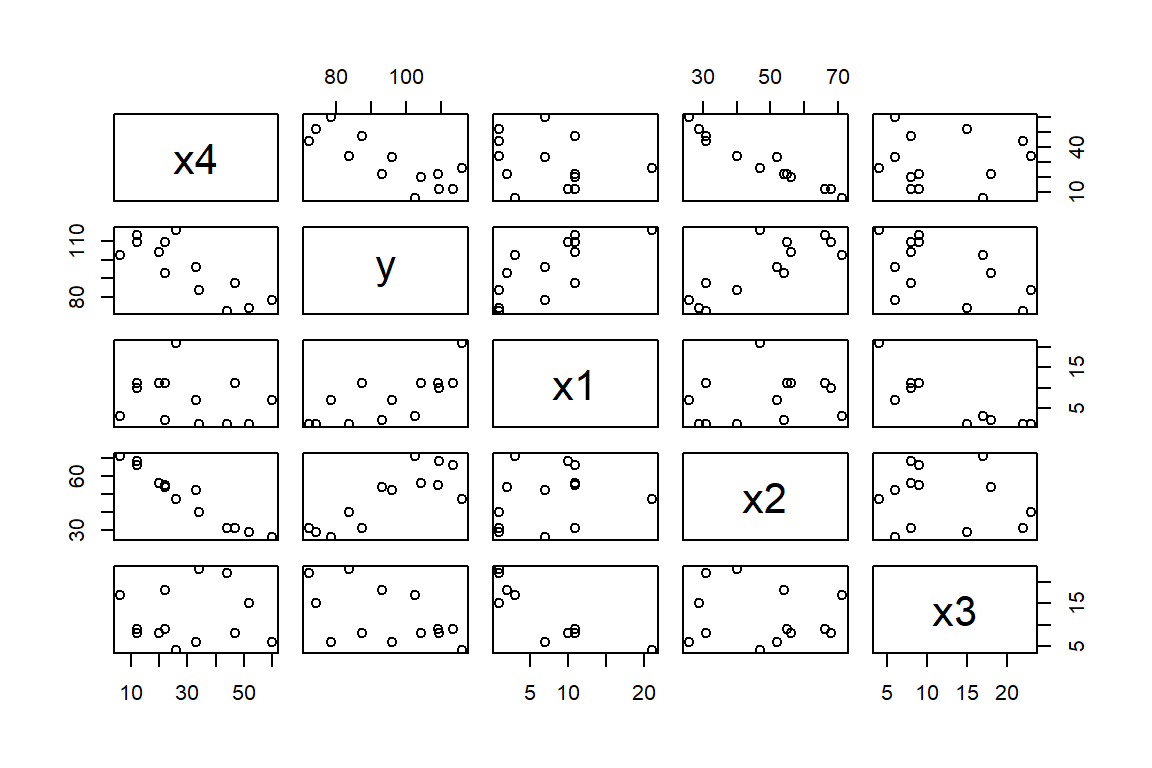
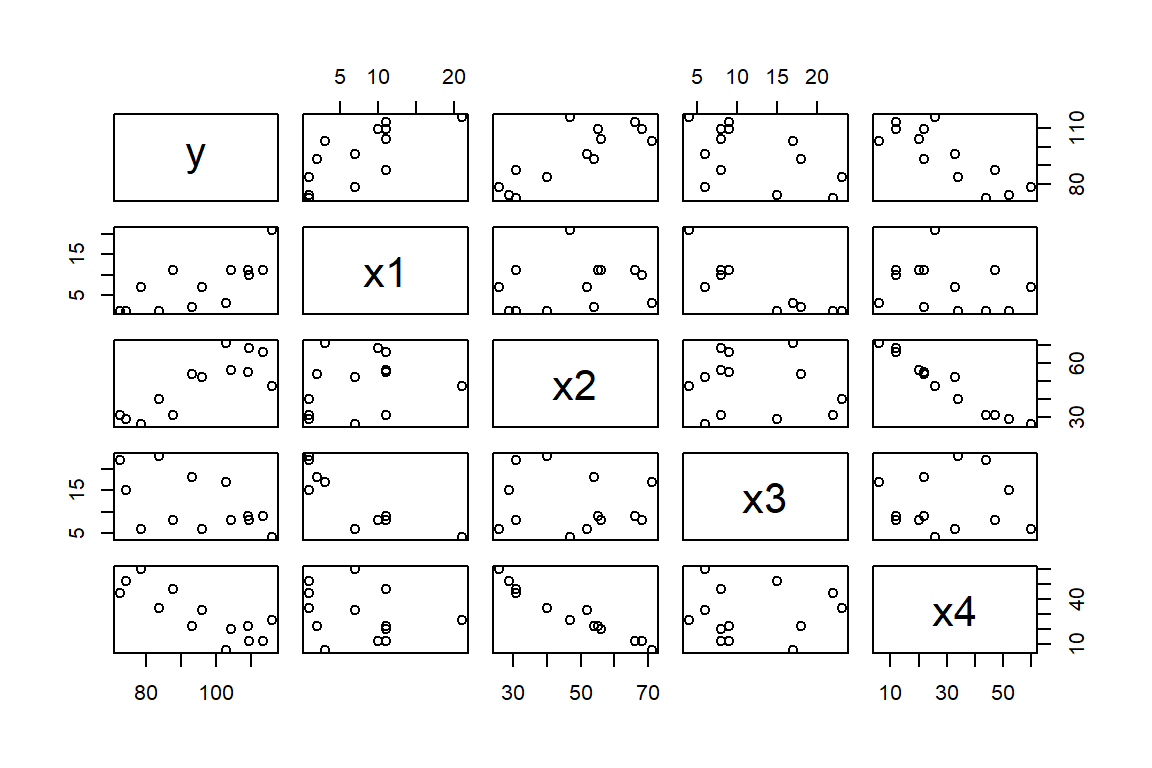
27/04/22

diff --git a/docs/multicolinealidad.html b/docs/multicolinealidad.html
@@ -24,7 +24,7 @@
 <meta name="author" content="Alvaro J. Flórez" />
 
 
-<meta name="date" content="2022-04-25" />
+<meta name="date" content="2022-04-27" />
 
   <meta name="viewport" content="width=device-width, initial-scale=1" />
   <meta name="apple-mobile-web-app-capable" content="yes" />
@@ -195,6 +195,10 @@ code span.wa { color: #60a0b0; font-weight: bold; font-style: italic; } /* Warni
 <ul>
 <li class="chapter" data-level="3.7.1" data-path="multicolinealidad.html"><a href="multicolinealidad.html#datos-de-cemento-1"><i class="fa fa-check"></i><b>3.7.1</b> Datos de cemento</a></li>
 </ul></li>
+<li class="chapter" data-level="3.8" data-path="multicolinealidad.html"><a href="multicolinealidad.html#estimador-por-componentes-principales"><i class="fa fa-check"></i><b>3.8</b> Estimador por componentes principales</a>
+<ul>
+<li class="chapter" data-level="3.8.1" data-path="multicolinealidad.html"><a href="multicolinealidad.html#datos-de-cemento-2"><i class="fa fa-check"></i><b>3.8.1</b> Datos de cemento</a></li>
+</ul></li>
 </ul></li>
 <li class="divider"></li>
 <li><a href="https://github.com/rstudio/bookdown" target="blank">Published with bookdown</a></li>
@@ -231,9 +235,8 @@ code span.wa { color: #60a0b0; font-weight: bold; font-style: italic; } /* Warni
 <li><strong><code>x4</code></strong> silicato dicálcico (%).</li>
 </ul>
 <p>En la Figura <a href="multicolinealidad.html#fig:CementFigure">3.1</a> podemos observar que hay relaciones lineales positivas entre la variable respuesta, y las covariables aluminato tricálcico y silicato tricálcico. Mientras que la relación con la variable silicato dicálcico es negativa. También podemos notar que hay una relación negativa fuerte en las covariables aluminato tricálcico y tetra-aluminio ferrita de calcio, y entre silicato tricálcico y silicato dicálcico.</p>
-<div class="sourceCode" id="cb36"><pre class="sourceCode r"><code class="sourceCode r"><span id="cb36-1"><a href="multicolinealidad.html#cb36-1" aria-hidden="true" tabindex="-1"></a><span class="fu">library</span>(MASS)</span>
-<span id="cb36-2"><a href="multicolinealidad.html#cb36-2" aria-hidden="true" tabindex="-1"></a><span class="fu">data</span>(cement)</span>
-<span id="cb36-3"><a href="multicolinealidad.html#cb36-3" aria-hidden="true" tabindex="-1"></a><span class="fu">plot</span>(cement[,<span class="fu">c</span>(<span class="dv">5</span>,<span class="dv">1</span><span class="sc">:</span><span class="dv">4</span>)])</span></code></pre></div>
+<div class="sourceCode" id="cb36"><pre class="sourceCode r"><code class="sourceCode r"><span id="cb36-1"><a href="multicolinealidad.html#cb36-1" aria-hidden="true" tabindex="-1"></a><span class="fu">data</span>(cement,<span class="at">package =</span> <span class="st">&#39;MASS&#39;</span>)</span>
+<span id="cb36-2"><a href="multicolinealidad.html#cb36-2" aria-hidden="true" tabindex="-1"></a><span class="fu">plot</span>(cement[,<span class="fu">c</span>(<span class="dv">5</span>,<span class="dv">1</span><span class="sc">:</span><span class="dv">4</span>)])</span></code></pre></div>
 <div class="figure" style="text-align: center"><span id="fig:CementFigure"></span>
 <img src="MLG2_files/figure-html/CementFigure-1.png" alt="Datos de cemento. Diagrama de dispersión." width="576" />
 <p class="caption">
@@ -329,28 +332,28 @@ Si esto se cumple para un subconjunto de <span class="math inline">\(\boldsymbol
 <span class="math display">\[
 \boldsymbol y^{*} = \boldsymbol Z\boldsymbol \beta+ \boldsymbol \varepsilon,
 \]</span>
-donde <span class="math inline">\(\boldsymbol Z\)</span> es la matriz de covariables escaladas con longitud unitaria, esto es:
+donde <span class="math inline">\(\boldsymbol Z\)</span> es la matriz de covariables escaladas con longitud unitaria. Esto es:
 <span class="math display">\[
 y_{i}^{*} = \frac{y_{i}-\bar{y}}{\sqrt{SST}}, \mbox{ y } z_{ij} = \frac{x_{ij} - \bar{x}_{j}}{\sqrt{s_{jj}}},
 \]</span>
-donde <span class="math inline">\(s_{jj} = \sum_{i=1}^{n}(x_{ij}-\bar{x}_{j})^{2}\)</span>. De esta forma la matriz <span class="math inline">\(\boldsymbol Z&#39;\boldsymbol Z\)</span> es la matriz de correlación de las covariables,
+donde <span class="math inline">\(s_{jj} = \sum_{i=1}^{n}(x_{ij}-\bar{x}_{j})^{2}\)</span>. De esta forma <span class="math inline">\(\boldsymbol Z&#39;\boldsymbol Z\)</span> es la matriz de correlación de las covariables,
 <span class="math display">\[
 \boldsymbol Z&#39;\boldsymbol Z= \begin{pmatrix}
-1 &amp; \rho_{12} \\ \rho_{12} &amp; 1
+1 &amp; r_{12} \\ r_{12} &amp; 1
 \end{pmatrix},
 \]</span>
 y <span class="math inline">\(\boldsymbol Z&#39;\boldsymbol y\)</span> es el vector de correlaciones entre <span class="math inline">\(y\)</span> y las dos covariables:
 <span class="math display">\[
 \boldsymbol Z&#39;\boldsymbol y^{*} = \begin{pmatrix}
-\rho_{y1} \\ \rho_{y2}
+r_{y1} \\ r_{y2}
 \end{pmatrix}.
 \]</span>
 Por lo que el estimador por MCO de <span class="math inline">\(\boldsymbol b\)</span> es:
 <span class="math display">\[
 \widehat{\boldsymbol b}= \begin{pmatrix}
-1 &amp; \rho_{12} \\ \rho_{12} &amp; 1
+1 &amp; r_{12} \\ r_{12} &amp; 1
 \end{pmatrix}^{-1}\begin{pmatrix}
-\rho_{y1} \\ \rho_{y2}
+r_{y1} \\ r_{y2}
 \end{pmatrix} = \begin{pmatrix}
 \frac{1}{1-r_{12}^{2}} &amp; \frac{-r_{12}}{1-r_{12}^{2}} \\ \frac{-r_{12}}{1-r_{12}^{2}} &amp; \frac{1}{1-r_{12}^{2}} \end{pmatrix} \begin{pmatrix}
 r_{1y} \\ r_{2y}
@@ -379,7 +382,7 @@ Las ecuaciones normales son:
 \vdots &amp; \vdots &amp; \vdots &amp; \ddots &amp; \vdots \\
 r_{1,p-1} &amp; r_{2,p-1} &amp; r_{3,p-1} &amp; \ldots &amp; 1
 \end{pmatrix} \begin{pmatrix}
-b_{1} \\ b_{2} \\ \vdots \\ b_{k}
+b_{1} \\ b_{2} \\ \vdots \\ b_{p-1}
 \end{pmatrix} = \begin{pmatrix}
 r_{y1} \\ r_{y2} \\ \vdots \\ r_{y,p-1}
 \end{pmatrix}.
@@ -401,13 +404,13 @@ z_{ij} = z_{i1}\alpha_1 + z_{i2}\alpha_2 + \ldots + z_{i,j-1}\alpha_{j-1} + z_{i
 V(\widehat{b}_{j}) = \frac{\sigma^{2}}{1-R^{2}_{j}}.
 \]</span>
 Por lo que, si <span class="math inline">\(z_j\)</span> se puede expresar como una combinación lineal aproximada de las demás covariables, la varianza del estimador de <span class="math inline">\(b_j\)</span> Si <span class="math inline">\(R^{2}_{j} \rightarrow 1\)</span>, entonces <span class="math inline">\(V(\widehat{b}_{j})\rightarrow \infty\)</span>.</p>
-<p>La multicolinealidad también produce que los estimadores <span class="math inline">\(\widehat{b}_{j}\)</span>, para <span class="math inline">\(j=1,\ldots,p\)</span>, sean muy grandes en valor absoluto. Considere:
+<p>La multicolinealidad también produce que los estimadores <span class="math inline">\(\widehat{b}_{j}\)</span>, para <span class="math inline">\(j=1,\ldots,p-1\)</span>, sean muy grandes en valor absoluto. Considere:
 <span class="math display">\[
-L_{1}^{2} = (\widehat{\boldsymbol b}- \boldsymbol b)&#39;(\widehat{\boldsymbol b}- \boldsymbol b) = \sum_{j=1}^{k}(\widehat{b}_{j}-b_{j})^{2}.
+L_{1}^{2} = (\widehat{\boldsymbol b}- \boldsymbol b)&#39;(\widehat{\boldsymbol b}- \boldsymbol b) = \sum_{j=1}^{p}(\widehat{b}_{j}-b_{j})^{2}.
 \]</span>
 El valor esperado de <span class="math inline">\(L_{1}^{2}\)</span> es:
 <span class="math display">\[
-E(L_{1}^{2}) = \sum_{j=1}^{p-1}E(\widehat{b}_{j}-b_{j})^{2} = \sum_{j=1}^{k}\sigma^{2}\mbox{tr}\boldsymbol R^{-1}
+E(L_{1}^{2}) = \sum_{j=1}^{p-1}E(\widehat{b}_{j}-b_{j})^{2} = \sum_{j=1}^{p-1}\sigma^{2}\mbox{tr}\boldsymbol R^{-1}
 \]</span>
 Dado que la traza de una matriz es igual a la suma de sus valores propios, tenemos que:
 <span class="math display">\[
@@ -466,11 +469,11 @@ V(\widehat{\boldsymbol \beta}) = \sigma^{2}\boldsymbol T\boldsymbol \Lambda^{-1}
 \]</span>
 Entonces,
 <span class="math display">\[
-V(\widehat{b}_{l}) = \sigma^{2}\sum_{j=1}^{p-1}\frac{t_{lj}^{2}}{\lambda_{j}}.
+V(\widehat{b}_{j}) = \sigma^{2}\sum_{k=1}^{p-1}\frac{t_{jk}^{2}}{\lambda_{k}}.
 \]</span>
 De la expresión anterior,
 <span class="math display">\[
-VIF_{j} = \sum_{j=1}^{k}\frac{t_{ij}^{2}}{\lambda_{j}},
+VIF_{j} = \sum_{j=1}^{p-1}\frac{t_{ij}^{2}}{\lambda_{j}},
 \]</span>
 Por lo tanto, uno o más valores propios pequeños pueden inflar la varianza de <span class="math inline">\(\widehat{b}_{j}\)</span>. De aquí salen los indicadores llamados índices de condición y número de condición.</p>
 <p>El índice de condición está definido como:
@@ -485,8 +488,8 @@ El número de condición está definido como el máximo índice de condición. U
 <span class="math display">\[
 \boldsymbol Z=\boldsymbol U\boldsymbol D\boldsymbol T&#39;,
 \]</span>
-donde <span class="math inline">\(\boldsymbol U\)</span> y <span class="math inline">\(\boldsymbol T\)</span> son matrices <span class="math inline">\((n\times p)\)</span> y <span class="math inline">\((p\times p)\)</span>, respectivamente, que <span class="math inline">\(\boldsymbol U\boldsymbol U= \boldsymbol I\)</span> y <span class="math inline">\(\boldsymbol T&#39;\boldsymbol T= \boldsymbol I\)</span>, y <span class="math inline">\(\boldsymbol D\)</span> es una matriz diagonal con elementos <span class="math inline">\(\mu_{j}\)</span>, <span class="math inline">\(j=1,\ldots,p\)</span>, llamados valores singulares.
-Hay una relación entre los valoes singulares de <span class="math inline">\(\boldsymbol Z\)</span> y los valores propios de <span class="math inline">\(\boldsymbol Z&#39;\boldsymbol Z\)</span>:
+donde <span class="math inline">\(\boldsymbol U\)</span> y <span class="math inline">\(\boldsymbol T\)</span> son matrices <span class="math inline">\(n\times (p-1)\)</span> y <span class="math inline">\((p-1)\times (p-1)\)</span>, respectivamente, <span class="math inline">\(\boldsymbol U\boldsymbol U= \boldsymbol I\)</span> y <span class="math inline">\(\boldsymbol T&#39;\boldsymbol T= \boldsymbol I\)</span>, y <span class="math inline">\(\boldsymbol D\)</span> es una matriz diagonal con elementos <span class="math inline">\(\mu_{j}\)</span>, <span class="math inline">\(j=1,\ldots,p-1\)</span>, llamados valores singulares.</p>
+<p>Hay una relación entre los valoes singulares de <span class="math inline">\(\boldsymbol Z\)</span> y los valores propios de <span class="math inline">\(\boldsymbol Z&#39;\boldsymbol Z\)</span>:
 <span class="math display">\[
 \boldsymbol Z&#39;\boldsymbol Z= (\boldsymbol U\boldsymbol D\boldsymbol T&#39;)&#39;\boldsymbol U\boldsymbol D\boldsymbol T&#39; = \boldsymbol T\boldsymbol D^2\boldsymbol T&#39; = \boldsymbol T\boldsymbol \Lambda\boldsymbol T&#39;.
 \]</span>
@@ -501,13 +504,13 @@ El número de condición de <span class="math inline">\(\boldsymbol Z\)</span> e
 <h3><span class="header-section-number">3.3.4</span> Proporciones de descomposición de varianza</h3>
 <p>Hay una relación entre el VIF, los valores propios y los valores singulares. Esta es:
 <span class="math display">\[
-VIF_{j} = \sum_{j=1}^{k}\frac{t_{ij}^{2}}{\lambda_{j}} = \sum_{j=1}^{k}\frac{t_{ij}^{2}}{\mu_{j}^2}.
+VIF_{j} = \sum_{j=1}^{p-1}\frac{t_{ij}^{2}}{\lambda_{j}} = \sum_{j=1}^{p-1}\frac{t_{ij}^{2}}{\mu_{j}^2}.
 \]</span>
 De aquí salen los indicadores llamados proporciones de descomposición de varianza. Estos se calculan de la siguiente forma:
 <span class="math display">\[
 \pi_{ij} = \frac{t_{ij}^2 / \mu_{i}^2 }{VIF_{j}}, j = 1,\ldots, p-1.
 \]</span>
-Si se agrupan los <span class="math inline">\(\pi_{ij}\)</span> en una matriz <span class="math inline">\((p \times p)\)</span> <span class="math inline">\(\boldsymbol \pi\)</span>, la columna <span class="math inline">\(j\)</span> son proporciones de la varianza de <span class="math inline">\(\widehat{\boldsymbol b}\)</span>. Valores <span class="math inline">\(\pi_{ij}\)</span> mayores de 0.5 indican problemas de multicolinealidad.</p>
+Si se agrupan los <span class="math inline">\(\pi_{ij}\)</span> en una matriz <span class="math inline">\((p-1) \times (p-1)\)</span> <span class="math inline">\(\boldsymbol \pi\)</span>, la columna <span class="math inline">\(j\)</span> son proporciones de la varianza de <span class="math inline">\(\widehat{\boldsymbol b}\)</span>. Valores <span class="math inline">\(\pi_{ij}\)</span> mayores de 0.5 indican problemas de multicolinealidad.</p>
 </div>
 </div>
 <div id="datos-de-cemento" class="section level2" number="3.4">
@@ -728,6 +731,114 @@ Figure 3.5:  Datos de cemento. Validación cruzada.
 ## P-value for F-test ( 3.07629 , 9.74488 ) = 3.013147e-08 
 ## -------------------------------------------------------------------</code></pre>
 <p>Vemos algunas diferencias con las estimaciones por MCO. Hay un cambio de signo en la estimación del coeficiente asociado a <code>x3</code>. Si embargo, no hay mucha diferencia en las estimaciones de los otros coeficientes. También podemos observar que las covariables <code>x1</code>, <code>x2</code> y <code>x3</code> ahora tienen un aporte significativo. Como era de esperarse, hay una disminución del <span class="math inline">\(R^{2}\)</span>, sin embargo es muy leve.</p>
+</div>
+</div>
+<div id="estimador-por-componentes-principales" class="section level2" number="3.8">
+<h2><span class="header-section-number">3.8</span> Estimador por componentes principales</h2>
+<p>Considere el modelo en su forma canónica:
+<span class="math display">\[
+\boldsymbol y^{*} = \boldsymbol Z\boldsymbol T\boldsymbol \alpha+ \boldsymbol \varepsilon,
+\]</span>
+donde <span class="math inline">\(\boldsymbol \alpha= \boldsymbol T&#39;\boldsymbol b\)</span>, <span class="math inline">\((\boldsymbol Z\boldsymbol T)&#39;\boldsymbol Z\boldsymbol T=\boldsymbol \Lambda\)</span>, <span class="math inline">\(\boldsymbol \Lambda\)</span> es una matriz diagonal de valores propios <span class="math inline">\((\lambda_1,\ldots,\lambda_p)\)</span> de <span class="math inline">\(\boldsymbol Z&#39;\boldsymbol Z\)</span>, y <span class="math inline">\(\boldsymbol T= (\boldsymbol t_{1},\ldots,\boldsymbol t_{p-1})\)</span> es la matriz ortogonal de vectores propios asociados <span class="math inline">\(\boldsymbol \Lambda\)</span>.</p>
+<p>Las columnas de <span class="math inline">\(\boldsymbol P= \boldsymbol Z\boldsymbol T= (\boldsymbol p_{1},\ldots,\boldsymbol p_{p-1})\)</span> son un conjunto de regresores ortogonales(llamados componentes principales):
+<span class="math display">\[
+\boldsymbol p_{k} = \sum_{j=1}^{p-1} t_{kj}\boldsymbol z_{j}.
+\]</span>
+El estimador de <span class="math inline">\(\boldsymbol \alpha\)</span> por MCO es:
+<span class="math display">\[
+\widehat{\boldsymbol \alpha}= (\boldsymbol P&#39;\boldsymbol P)^{-1}\boldsymbol P&#39;\boldsymbol y^{*} = \boldsymbol \Lambda^{-1}\boldsymbol P&#39;\boldsymbol y^{*},
+\]</span>
+y la varianza de <span class="math inline">\(\widehat{\boldsymbol \alpha}\)</span> es:
+<span class="math display">\[
+V(\widehat{\boldsymbol \alpha}) = \sigma^{2}(\boldsymbol P&#39;\boldsymbol P)^{-1} = \sigma^{2}\boldsymbol \Lambda^{-1}.
+\]</span>
+De aquí podemos ver que valores propios de <span class="math inline">\(\boldsymbol Z&#39;\boldsymbol Z\)</span> están asociados con la varianza de los coeficientes de regresión. Si <span class="math inline">\(\lambda_j=1\)</span> (para <span class="math inline">\(j=1,\ldots,p\)</span>), las covariables originales son ortogonales. Mientras que valores propios cercanos a cero indican problemas de multicolinealidad dado que inflan la varianza de <span class="math inline">\(\widehat{\boldsymbol \alpha}\)</span>.</p>
+<p>Además, Note que para <span class="math inline">\(\widehat{\boldsymbol b}= \boldsymbol T\widehat{\boldsymbol \alpha}\)</span>, tenemos:
+<span class="math display">\[
+V(\widehat{\boldsymbol b}) = V(\boldsymbol T\widehat{\boldsymbol \alpha}) =\sigma^{2}\boldsymbol T\boldsymbol \Lambda^{-1}\boldsymbol T&#39; = \sigma^{2} \sum_{j=1}^{p-1}\lambda_{j}^{-1}\boldsymbol t_{j}\boldsymbol t_{j}&#39;,
+\]</span>
+lo que implica que <span class="math inline">\(V(\widehat{b}_{k}) = \sigma^{2} \sum_{j=1}^{p-1}t_{kj}^{2}/\lambda_{j}\)</span>; la varianza de <span class="math inline">\(\widehat{b}_j\)</span> es una combinación lineal de los valores propios.</p>
+<p>Para combatir el problema de multicolinealidad, la idea de la regresión por componentes principales es usar un subconjunto de <span class="math inline">\(\boldsymbol P\)</span> como regresores (en vez de todos los compontes). Para esto, eliminamos los componentes principales <span class="math inline">\((\boldsymbol p_{r+1},\ldots,\boldsymbol p_{p-1})\)</span> asociados a los valores propios cercanos a cero <span class="math inline">\((\lambda_{r+1},\ldots,\lambda_{p-1})\)</span>. Aquí estamos asumiendo que los valores propios están ordenados de mayor a menor, <span class="math inline">\(\lambda_1 \leq \lambda_2 \leq \ldots \leq \lambda_p\)</span> (como lo hace <code>R</code>). Esto es,
+<span class="math display">\[
+\widehat{\boldsymbol \alpha}_{PC} = \boldsymbol L\widehat{\boldsymbol \alpha}= \begin{pmatrix} \boldsymbol I_{r} &amp; \boldsymbol 0\\ \boldsymbol 0&amp; \boldsymbol 0\end{pmatrix} \widehat{\boldsymbol \alpha}.
+\]</span>
+Por lo tanto <span class="math inline">\(\widehat{\boldsymbol \alpha}_{PC} = (\overbrace{\widehat{\alpha}_{1},\widehat{\alpha}_{2},\ldots, \widehat{\alpha}_{r}}^{r},\overbrace{0, \ldots,0}^{p-1-r})&#39;\)</span>.</p>
+<p>En términos de <span class="math inline">\(\boldsymbol b\)</span>,
+<span class="math display">\[
+\widehat{\boldsymbol b}_{PC} = \boldsymbol T\widehat{\boldsymbol \alpha}_{PC} = \boldsymbol T\boldsymbol L\boldsymbol \Lambda^{-1}\boldsymbol T&#39;\boldsymbol Z&#39;\boldsymbol y^{*}.
+\]</span>
+Además,
+<span class="math display">\[
+V(\widehat{\boldsymbol b}_{PC}) = \sigma^{2} \boldsymbol T\boldsymbol L\boldsymbol \Lambda^{-1}\boldsymbol L&#39;\boldsymbol T&#39; = \sigma^{2}\sum_{j=1}^{r} \lambda_{j}^{-1}\boldsymbol t_{j}\boldsymbol t_{j}&#39;.
+\]</span>
+lo que implica que <span class="math inline">\(V(\widehat{b}_{PC,j}) = \sigma^{2} \sum_{k=1}^{r}t_{jk}^{2}/\lambda_{k}\)</span>.</p>
+<p>El sesgo de <span class="math inline">\(\widehat{\boldsymbol b}_{PC}\)</span> está definido como:
+<span class="math display">\[
+E(\boldsymbol T\widehat{\boldsymbol \alpha}_{PC}) - \boldsymbol T\boldsymbol \alpha= -\sum_{k=r+1}^{p-1}\alpha_k\boldsymbol t_{k}.
+\]</span>
+Mientras que la varianza de <span class="math inline">\(\widehat{\boldsymbol b}_{PC}\)</span> es:
+<span class="math display" id="eq:varBPC">\[\begin{equation}
+V(\boldsymbol T\widehat{\boldsymbol \alpha}_{PC}) = \boldsymbol T\left[ \sigma^{2}\boldsymbol L\boldsymbol \Lambda^{-1} \boldsymbol L\right] \boldsymbol T^{-1} = \sigma^{2} \sum_{k=1}^{r}\lambda_k^{-1}\boldsymbol t_{k}\boldsymbol t_{k}&#39; \leq \sigma^{2} \sum_{k=1}^{p-1}\lambda_k^{-1}\boldsymbol t_{k}\boldsymbol t_{k}&#39; = \sigma^{2}(\boldsymbol Z&#39;\boldsymbol Z)^{-1}.
+\tag{3.2}
+\end{equation}\]</span>
+Por lo tanto, al eliminar componentes principales se aumenta el sesgo, pero se disminuye la varianza de <span class="math inline">\(\widehat{\boldsymbol b}_{PC}\)</span>.</p>
+<p>Note en <a href="multicolinealidad.html#eq:varBPC">(3.2)</a> que la diferencia en varianzas con respecto al estimador de MCO de <span class="math inline">\(\boldsymbol b\)</span>:
+<span class="math display">\[
+\sigma^{2}\sum_{k=r+1}^{p-1}\lambda_k^{-1} \boldsymbol t_{k}\boldsymbol t_{k}&#39;,
+\]</span>
+será mayor si las componentes principales excluidas están asociadas a valores propios pequeños.</p>
+<div id="datos-de-cemento-2" class="section level3" number="3.8.1">
+<h3><span class="header-section-number">3.8.1</span> Datos de cemento</h3>
+<p>Antes de ajustar el modelo vamos a escalar las variables</p>
+<div class="sourceCode" id="cb62"><pre class="sourceCode r"><code class="sourceCode r"><span id="cb62-1"><a href="multicolinealidad.html#cb62-1" aria-hidden="true" tabindex="-1"></a>escalar <span class="ot">&lt;-</span> <span class="cf">function</span>(x) {(x<span class="sc">-</span><span class="fu">mean</span>(x)) <span class="sc">/</span> <span class="fu">sqrt</span>(<span class="fu">sum</span>((x<span class="sc">-</span><span class="fu">mean</span>(x))<span class="sc">^</span><span class="dv">2</span>))}</span>
+<span id="cb62-2"><a href="multicolinealidad.html#cb62-2" aria-hidden="true" tabindex="-1"></a>X <span class="ot">=</span> <span class="fu">as.matrix</span>(cement[,<span class="dv">1</span><span class="sc">:</span><span class="dv">4</span>])</span>
+<span id="cb62-3"><a href="multicolinealidad.html#cb62-3" aria-hidden="true" tabindex="-1"></a>y.e <span class="ot">=</span> <span class="fu">escalar</span>(cement<span class="sc">$</span>y)</span>
+<span id="cb62-4"><a href="multicolinealidad.html#cb62-4" aria-hidden="true" tabindex="-1"></a>Z <span class="ot">=</span> <span class="fu">apply</span>(cement[,<span class="dv">1</span><span class="sc">:</span><span class="dv">4</span>],<span class="dv">2</span>,escalar)</span></code></pre></div>
+<p>A partir de las variables escaladas podemos calcular los vectores y valores propios:</p>
+<div class="sourceCode" id="cb63"><pre class="sourceCode r"><code class="sourceCode r"><span id="cb63-1"><a href="multicolinealidad.html#cb63-1" aria-hidden="true" tabindex="-1"></a>T.mat <span class="ot">=</span> <span class="fu">eigen</span>(<span class="fu">t</span>(Z)<span class="sc">%*%</span>Z)<span class="sc">$</span>vectors</span>
+<span id="cb63-2"><a href="multicolinealidad.html#cb63-2" aria-hidden="true" tabindex="-1"></a>lambda <span class="ot">=</span> <span class="fu">eigen</span>(<span class="fu">t</span>(Z)<span class="sc">%*%</span>Z)<span class="sc">$</span>values</span>
+<span id="cb63-3"><a href="multicolinealidad.html#cb63-3" aria-hidden="true" tabindex="-1"></a>lambda</span></code></pre></div>
+<pre><code>## [1] 2.235704035 1.576066070 0.186606149 0.001623746</code></pre>
+<p>Aquí podemos observar que un valor propio es cercano a cero, por lo que lo podemos eliminarlo para remediar el problema de multicolinealidad:</p>
+<div class="sourceCode" id="cb65"><pre class="sourceCode r"><code class="sourceCode r"><span id="cb65-1"><a href="multicolinealidad.html#cb65-1" aria-hidden="true" tabindex="-1"></a>P <span class="ot">=</span> Z<span class="sc">%*%</span>T.mat</span>
+<span id="cb65-2"><a href="multicolinealidad.html#cb65-2" aria-hidden="true" tabindex="-1"></a>PCR.cement <span class="ot">=</span> <span class="fu">lm</span>(y.e<span class="sc">~</span>P[,<span class="sc">-</span><span class="dv">4</span>]<span class="sc">-</span><span class="dv">1</span>)</span>
+<span id="cb65-3"><a href="multicolinealidad.html#cb65-3" aria-hidden="true" tabindex="-1"></a><span class="fu">summary</span>(PCR.cement)</span></code></pre></div>
+<pre><code>## 
+## Call:
+## lm(formula = y.e ~ P[, -4] - 1)
+## 
+## Residuals:
+##       Min        1Q    Median        3Q       Max 
+## -0.058393 -0.036851  0.006961  0.022836  0.073963 
+## 
+## Coefficients:
+##           Estimate Std. Error t value Pr(&gt;|t|)    
+## P[, -4]1 -0.656958   0.028271 -23.238 4.93e-10 ***
+## P[, -4]2 -0.008309   0.033671  -0.247   0.8101    
+## P[, -4]3  0.302770   0.097856   3.094   0.0114 *  
+## ---
+## Signif. codes:  0 &#39;***&#39; 0.001 &#39;**&#39; 0.01 &#39;*&#39; 0.05 &#39;.&#39; 0.1 &#39; &#39; 1
+## 
+## Residual standard error: 0.04227 on 10 degrees of freedom
+## Multiple R-squared:  0.9821, Adjusted R-squared:  0.9768 
+## F-statistic: 183.2 on 3 and 10 DF,  p-value: 4.895e-09</code></pre>
+<p>Las estimaciones de los coeficientes <span class="math inline">\((\boldsymbol b)\)</span> para las variables escaladas:</p>
+<div class="sourceCode" id="cb67"><pre class="sourceCode r"><code class="sourceCode r"><span id="cb67-1"><a href="multicolinealidad.html#cb67-1" aria-hidden="true" tabindex="-1"></a>beta.CP <span class="ot">=</span>T.mat<span class="sc">%*%</span><span class="fu">c</span>(PCR.cement<span class="sc">$</span>coefficients,<span class="dv">0</span>)</span>
+<span id="cb67-2"><a href="multicolinealidad.html#cb67-2" aria-hidden="true" tabindex="-1"></a>beta.CP</span></code></pre></div>
+<pre><code>##             [,1]
+## [1,]  0.51297502
+## [2,]  0.27868114
+## [3,] -0.06078483
+## [4,] -0.42288461</code></pre>
+<p>La matriz de varianza de <span class="math inline">\(\boldsymbol b_{PC}\)</span> es:</p>
+<div class="sourceCode" id="cb69"><pre class="sourceCode r"><code class="sourceCode r"><span id="cb69-1"><a href="multicolinealidad.html#cb69-1" aria-hidden="true" tabindex="-1"></a>sigma2.pc <span class="ot">=</span> <span class="fu">sum</span>(PCR.cement<span class="sc">$</span>residuals<span class="sc">^</span><span class="dv">2</span>)<span class="sc">/</span>(<span class="dv">13-3</span>)</span>
+<span id="cb69-2"><a href="multicolinealidad.html#cb69-2" aria-hidden="true" tabindex="-1"></a>Var.b <span class="ot">=</span> sigma2.pc<span class="sc">*</span>T.mat<span class="sc">%*%</span><span class="fu">diag</span>(<span class="fu">c</span>(lambda[<span class="dv">1</span><span class="sc">:</span><span class="dv">3</span>],<span class="dv">0</span>))<span class="sc">%*%</span><span class="fu">t</span>(T.mat)</span>
+<span id="cb69-3"><a href="multicolinealidad.html#cb69-3" aria-hidden="true" tabindex="-1"></a>Var.b</span></code></pre></div>
+<pre><code>##               [,1]          [,2]          [,3]          [,4]
+## [1,]  0.0017867184  0.0004079968 -1.472822e-03 -4.390560e-04
+## [2,]  0.0004079968  0.0017856921 -2.493103e-04 -1.739821e-03
+## [3,] -0.0014728217 -0.0002493103  1.786678e-03  5.225215e-05
+## [4,] -0.0004390560 -0.0017398208  5.225215e-05  1.785558e-03</code></pre>
 
 </div>
 </div>

diff --git a/docs/variables-indicadoras-o-dummies.html b/docs/variables-indicadoras-o-dummies.html
@@ -24,7 +24,7 @@
 <meta name="author" content="Alvaro J. Flórez" />
 
 
-<meta name="date" content="2022-04-25" />
+<meta name="date" content="2022-04-27" />
 
   <meta name="viewport" content="width=device-width, initial-scale=1" />
   <meta name="apple-mobile-web-app-capable" content="yes" />
@@ -194,6 +194,10 @@ code span.wa { color: #60a0b0; font-weight: bold; font-style: italic; } /* Warni
 <li class="chapter" data-level="3.7" data-path="multicolinealidad.html"><a href="multicolinealidad.html#estimador-de-ridge"><i class="fa fa-check"></i><b>3.7</b> Estimador de ridge</a>
 <ul>
 <li class="chapter" data-level="3.7.1" data-path="multicolinealidad.html"><a href="multicolinealidad.html#datos-de-cemento-1"><i class="fa fa-check"></i><b>3.7.1</b> Datos de cemento</a></li>
+</ul></li>
+<li class="chapter" data-level="3.8" data-path="multicolinealidad.html"><a href="multicolinealidad.html#estimador-por-componentes-principales"><i class="fa fa-check"></i><b>3.8</b> Estimador por componentes principales</a>
+<ul>
+<li class="chapter" data-level="3.8.1" data-path="multicolinealidad.html"><a href="multicolinealidad.html#datos-de-cemento-2"><i class="fa fa-check"></i><b>3.8.1</b> Datos de cemento</a></li>
 </ul></li>
 </ul></li>
 <li class="divider"></li>
@@ -419,9 +423,8 @@ donde <span class="math inline">\(\varepsilon_{i} \sim N(0, \sigma^{2})\)</span>
 <div class="sourceCode" id="cb10"><pre class="sourceCode r"><code class="sourceCode r"><span id="cb10-1"><a href="variables-indicadoras-o-dummies.html#cb10-1" aria-hidden="true" tabindex="-1"></a><span class="fu">plot</span>(Hg<span class="sc">~</span>BMI,<span class="at">data=</span>ais,<span class="at">col=</span>ais<span class="sc">$</span>Sex<span class="sc">+</span><span class="dv">1</span>,<span class="at">ylab=</span><span class="st">&#39;Hg (g/dl)&#39;</span>,<span class="at">xlab=</span><span class="st">&#39;BMI&#39;</span>)</span>
 <span id="cb10-2"><a href="variables-indicadoras-o-dummies.html#cb10-2" aria-hidden="true" tabindex="-1"></a><span class="fu">abline</span>(<span class="at">a=</span>mod.ais<span class="sc">$</span>coefficients[<span class="dv">1</span>],<span class="at">b=</span>mod.ais<span class="sc">$</span>coefficients[<span class="dv">3</span>],<span class="at">lwd=</span><span class="dv">2</span>)</span>
 <span id="cb10-3"><a href="variables-indicadoras-o-dummies.html#cb10-3" aria-hidden="true" tabindex="-1"></a><span class="fu">abline</span>(<span class="at">a=</span>mod.ais<span class="sc">$</span>coefficients[<span class="dv">1</span>]<span class="sc">+</span>mod.ais<span class="sc">$</span>coefficients[<span class="dv">2</span>],<span class="at">b=</span>mod.ais<span class="sc">$</span>coefficients[<span class="dv">3</span>]<span class="sc">+</span>mod.ais<span class="sc">$</span>coefficients[<span class="dv">4</span>],<span class="at">col=</span><span class="dv">2</span>,<span class="at">lwd=</span><span class="dv">2</span>)</span>
-<span id="cb10-4"><a href="variables-indicadoras-o-dummies.html#cb10-4" aria-hidden="true" tabindex="-1"></a></span>
-<span id="cb10-5"><a href="variables-indicadoras-o-dummies.html#cb10-5" aria-hidden="true" tabindex="-1"></a><span class="fu">abline</span>(<span class="at">a=</span>mod.ais.lp<span class="sc">$</span>coefficients[<span class="dv">1</span>],<span class="at">b=</span>mod.ais.lp<span class="sc">$</span>coefficients[<span class="dv">3</span>],<span class="at">lwd=</span><span class="dv">2</span>,<span class="at">lty=</span><span class="dv">2</span>)</span>
-<span id="cb10-6"><a href="variables-indicadoras-o-dummies.html#cb10-6" aria-hidden="true" tabindex="-1"></a><span class="fu">abline</span>(<span class="at">a=</span>mod.ais.lp<span class="sc">$</span>coefficients[<span class="dv">1</span>]<span class="sc">+</span>mod.ais.lp<span class="sc">$</span>coefficients[<span class="dv">2</span>],<span class="at">b=</span>mod.ais.lp<span class="sc">$</span>coefficients[<span class="dv">3</span>],<span class="at">col=</span><span class="dv">2</span>,<span class="at">lwd=</span><span class="dv">2</span>,<span class="at">lty=</span><span class="dv">2</span>)</span></code></pre></div>
+<span id="cb10-4"><a href="variables-indicadoras-o-dummies.html#cb10-4" aria-hidden="true" tabindex="-1"></a><span class="fu">abline</span>(<span class="at">a=</span>mod.ais.lp<span class="sc">$</span>coefficients[<span class="dv">1</span>],<span class="at">b=</span>mod.ais.lp<span class="sc">$</span>coefficients[<span class="dv">3</span>],<span class="at">lwd=</span><span class="dv">2</span>,<span class="at">lty=</span><span class="dv">2</span>)</span>
+<span id="cb10-5"><a href="variables-indicadoras-o-dummies.html#cb10-5" aria-hidden="true" tabindex="-1"></a><span class="fu">abline</span>(<span class="at">a=</span>mod.ais.lp<span class="sc">$</span>coefficients[<span class="dv">1</span>]<span class="sc">+</span>mod.ais.lp<span class="sc">$</span>coefficients[<span class="dv">2</span>],<span class="at">b=</span>mod.ais.lp<span class="sc">$</span>coefficients[<span class="dv">3</span>],<span class="at">col=</span><span class="dv">2</span>,<span class="at">lwd=</span><span class="dv">2</span>,<span class="at">lty=</span><span class="dv">2</span>)</span></code></pre></div>
 <div class="figure" style="text-align: center"><span id="fig:AtletesAjuste2"></span>
 <img src="MLG2_files/figure-html/AtletesAjuste2-1.png" alt="Datos de atletas. Ajuste del modelo general (línea solida) y el modelo líneas paralelas (línea discontinua) para la homoglobina en función  del índice de masa corporal y sexo. Líneas negra para hombres y líneas roja para mujeres." width="576" />
 <p class="caption">

diff --git a/docs/modelos-polinomiales.html b/docs/modelos-polinomiales.html
@@ -24,7 +24,7 @@
 <meta name="author" content="Alvaro J. Flórez" />
 
 
-<meta name="date" content="2022-04-25" />
+<meta name="date" content="2022-04-27" />
 
   <meta name="viewport" content="width=device-width, initial-scale=1" />
   <meta name="apple-mobile-web-app-capable" content="yes" />
@@ -195,6 +195,10 @@ code span.wa { color: #60a0b0; font-weight: bold; font-style: italic; } /* Warni
 <ul>
 <li class="chapter" data-level="3.7.1" data-path="multicolinealidad.html"><a href="multicolinealidad.html#datos-de-cemento-1"><i class="fa fa-check"></i><b>3.7.1</b> Datos de cemento</a></li>
 </ul></li>
+<li class="chapter" data-level="3.8" data-path="multicolinealidad.html"><a href="multicolinealidad.html#estimador-por-componentes-principales"><i class="fa fa-check"></i><b>3.8</b> Estimador por componentes principales</a>
+<ul>
+<li class="chapter" data-level="3.8.1" data-path="multicolinealidad.html"><a href="multicolinealidad.html#datos-de-cemento-2"><i class="fa fa-check"></i><b>3.8.1</b> Datos de cemento</a></li>
+</ul></li>
 </ul></li>
 <li class="divider"></li>
 <li><a href="https://github.com/rstudio/bookdown" target="blank">Published with bookdown</a></li>
@@ -228,9 +232,9 @@ code span.wa { color: #60a0b0; font-weight: bold; font-style: italic; } /* Warni
 <span id="cb19-2"><a href="modelos-polinomiales.html#cb19-2" aria-hidden="true" tabindex="-1"></a><span class="fu">data</span>(cakes)</span>
 <span id="cb19-3"><a href="modelos-polinomiales.html#cb19-3" aria-hidden="true" tabindex="-1"></a><span class="fu">plot</span>(cakes[,<span class="sc">-</span><span class="dv">1</span>])</span></code></pre></div>
 <div class="figure" style="text-align: center"><span id="fig:CakesFigure"></span>
-<img src="MLG2_files/figure-html/CakesFigure-1.png" alt="\label{fig:CakesFig} Datos de pasteles. Diagrama de dispersión." width="576" />
+<img src="MLG2_files/figure-html/CakesFigure-1.png" alt="Datos de pasteles. Diagrama de dispersión." width="576" />
 <p class="caption">
-Figure 2.1:  Datos de pasteles. Diagrama de dispersión.
+Figure 2.1: Datos de pasteles. Diagrama de dispersión.
 </p>
 </div>
 </div>
@@ -241,9 +245,9 @@ Figure 2.1:  Datos de pasteles. Diagrama de dispersión.
 <span id="cb20-2"><a href="modelos-polinomiales.html#cb20-2" aria-hidden="true" tabindex="-1"></a><span class="fu">data</span>(Boston)</span>
 <span id="cb20-3"><a href="modelos-polinomiales.html#cb20-3" aria-hidden="true" tabindex="-1"></a><span class="fu">plot</span>(nox<span class="sc">~</span>dis,<span class="at">data=</span>Boston,<span class="at">ylab=</span><span class="st">&#39;NOx&#39;</span>,<span class="at">xlab=</span><span class="st">&#39;distancia a centros de empleo&#39;</span>)</span></code></pre></div>
 <div class="figure" style="text-align: center"><span id="fig:BostonFigure"></span>
-<img src="MLG2_files/figure-html/BostonFigure-1.png" alt="\label{fig:BostonFig} Datos de Boston. Relación entre el óxido de nitrógeno y la distancia a centros de empleo." width="576" />
+<img src="MLG2_files/figure-html/BostonFigure-1.png" alt="Datos de Boston. Relación entre el óxido de nitrógeno y la distancia a centros de empleo." width="576" />
 <p class="caption">
-Figure 2.2:  Datos de Boston. Relación entre el óxido de nitrógeno y la distancia a centros de empleo.
+Figure 2.2: Datos de Boston. Relación entre el óxido de nitrógeno y la distancia a centros de empleo.
 </p>
 </div>
 </div>
@@ -397,9 +401,9 @@ El ajuste del modelo es:</p>
 <p>En este caso, los VIF decrecieron considerablemente con respecto al modelo con las covariables originales.</p>
 <p>En la figura <a href="#fig:predCakes"><strong>??</strong></a> podemos observar el valor esperado estimado de la palatabilidad para diferentes valores de tiempo y temperatura de horneado.</p>
 <div class="figure" style="text-align: center"><span id="fig:PredCakes"></span>
-<img src="MLG2_files/figure-html/PredCakes-1.png" alt="\label{fig:predCakes} Datos de pasteles. Valor esperado de la palatabilidad para diferentes valores de tiempo y temperatura de horneado. " width="864" />
+<img src="MLG2_files/figure-html/PredCakes-1.png" alt="Datos de pasteles. Valor esperado de la palatabilidad para diferentes valores de tiempo y temperatura de horneado. " width="864" />
 <p class="caption">
-Figure 2.8:  Datos de pasteles. Valor esperado de la palatabilidad para diferentes valores de tiempo y temperatura de horneado.
+Figure 2.8: Datos de pasteles. Valor esperado de la palatabilidad para diferentes valores de tiempo y temperatura de horneado.
 </p>
 </div>
 <p>En la Figura <a href="#fig:predCakes"><strong>??</strong></a> (izquierda) vemos que, cuando la temperatura es de 350 grados Fahrenheit, el máximo de palatabilidad que se obtiene en un tiempo entre 36 y 37 minutos. Sin embargo, cuando la temperatura se incrementa a 360, la máxima palatibilidad que se puede lograr es menor. Además, se obtiene en un tiempo también menor. El efecto de la interacción también se puede observar en la Figura <a href="modelos-polinomiales.html#fig:predCakes2">2.9</a> (derecha), pero ahora fijando el tiempo de horneado y variando la temperatura. El gráfico de contornos (Figura <a href="modelos-polinomiales.html#fig:predCakes2">2.9</a>) muestra que la máxima palatabilidad se observa cuando la temperatura está alrededor de 355 y el tiempo de horneado está entre 35 y 36 minutos.</p>

diff --git a/docs/index.html b/docs/index.html
@@ -24,7 +24,7 @@
 <meta name="author" content="Alvaro J. Flórez" />
 
 
-<meta name="date" content="2022-04-25" />
+<meta name="date" content="2022-04-27" />
 
   <meta name="viewport" content="width=device-width, initial-scale=1" />
   <meta name="apple-mobile-web-app-capable" content="yes" />
@@ -195,6 +195,10 @@ code span.wa { color: #60a0b0; font-weight: bold; font-style: italic; } /* Warni
 <ul>
 <li class="chapter" data-level="3.7.1" data-path="multicolinealidad.html"><a href="multicolinealidad.html#datos-de-cemento-1"><i class="fa fa-check"></i><b>3.7.1</b> Datos de cemento</a></li>
 </ul></li>
+<li class="chapter" data-level="3.8" data-path="multicolinealidad.html"><a href="multicolinealidad.html#estimador-por-componentes-principales"><i class="fa fa-check"></i><b>3.8</b> Estimador por componentes principales</a>
+<ul>
+<li class="chapter" data-level="3.8.1" data-path="multicolinealidad.html"><a href="multicolinealidad.html#datos-de-cemento-2"><i class="fa fa-check"></i><b>3.8.1</b> Datos de cemento</a></li>
+</ul></li>
 </ul></li>
 <li class="divider"></li>
 <li><a href="https://github.com/rstudio/bookdown" target="blank">Published with bookdown</a></li>
@@ -219,7 +223,7 @@ code span.wa { color: #60a0b0; font-weight: bold; font-style: italic; } /* Warni
 <div id="header">
 <h1 class="title">Notas de clase: Modelo lineal general II</h1>
 <p class="author"><em>Alvaro J. Flórez</em></p>
-<p class="date" style="margin-top: 1.5em;"><em>2022-04-25</em></p>
+<p class="date" style="margin-top: 1.5em;"><em>2022-04-27</em></p>
 </div>
 <div id="introducción" class="section level1 unnumbered">
 <h1>Introducción</h1>

diff --git a/preamble.tex b/preamble.tex
@@ -4,7 +4,7 @@
 \usepackage{amsmath}
 \usepackage{inputenc}
 \usepackage{siunitx}
-
+\usepackage{mathtools}
 
 \parindent=0cm
 %\itemsep=0.7cm
